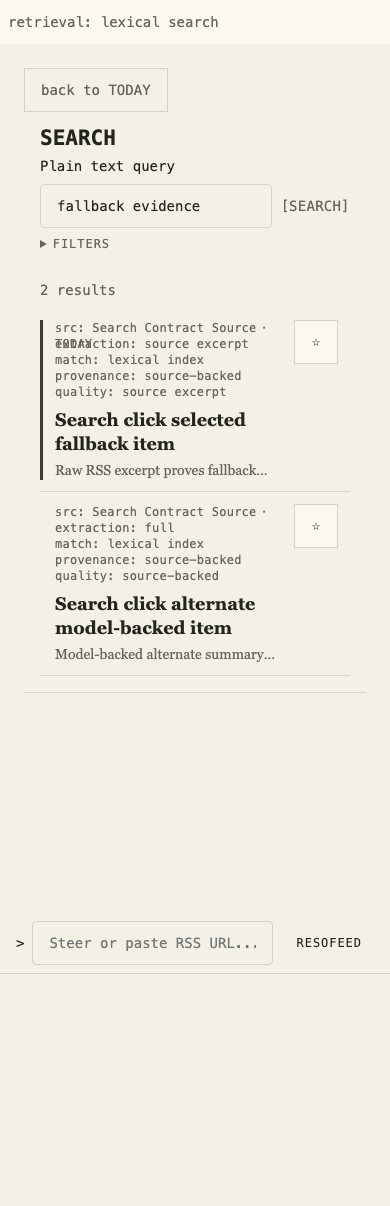
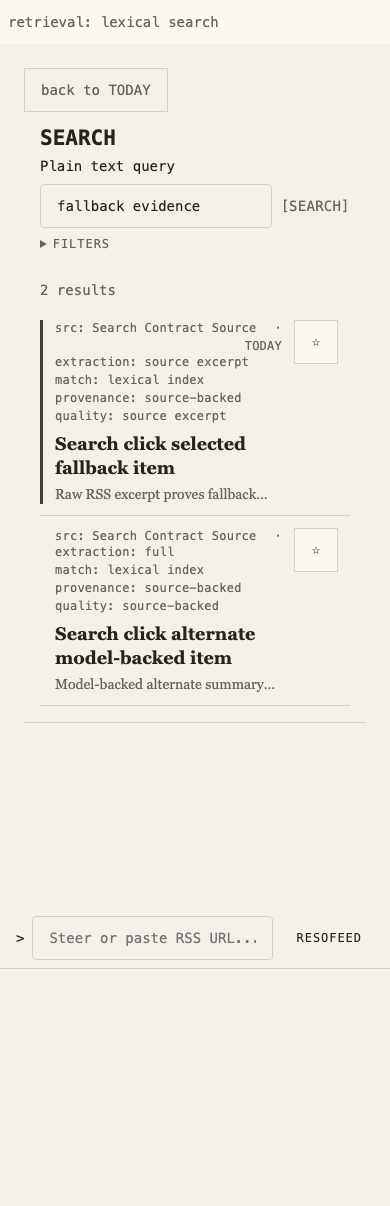
[vectl] step-search-click-mobile-metadata-overlap-fix completed

diff --git a/web/src/app.css b/web/src/app.css
@@ -1373,15 +1373,34 @@ details.surface-nav[open] ~ .surface-nav-quick-group {
   .contract-search-meta-primary,
   .contract-search-meta-secondary {
     flex-wrap: wrap;
-    row-gap: 0;
+    column-gap: var(--rf-space-sm);
+    row-gap: var(--rf-space-xxs);
+    height: auto;
+    min-height: 16px;
     overflow: visible;
     white-space: normal;
   }
 
+  .contract-search-meta-primary > span,
+  .contract-search-meta-secondary > span {
+    min-width: 0;
+    overflow: hidden;
+    text-overflow: ellipsis;
+    white-space: nowrap;
+  }
+
+  .contract-search-meta-primary .feed-meta-source,
+  .contract-search-meta-secondary .feed-meta-extraction {
+    flex: 1 1 auto;
+  }
+
+  .contract-search-meta-primary .feed-meta-age,
   .contract-search-time-label {
-    display: block;
-    flex-basis: 100%;
-    margin-inline-start: 0;
+    flex: 0 0 auto;
+  }
+
+  .contract-search-time-label {
+    margin-inline-start: auto;
     color: var(--rf-color-muted);
   }
 